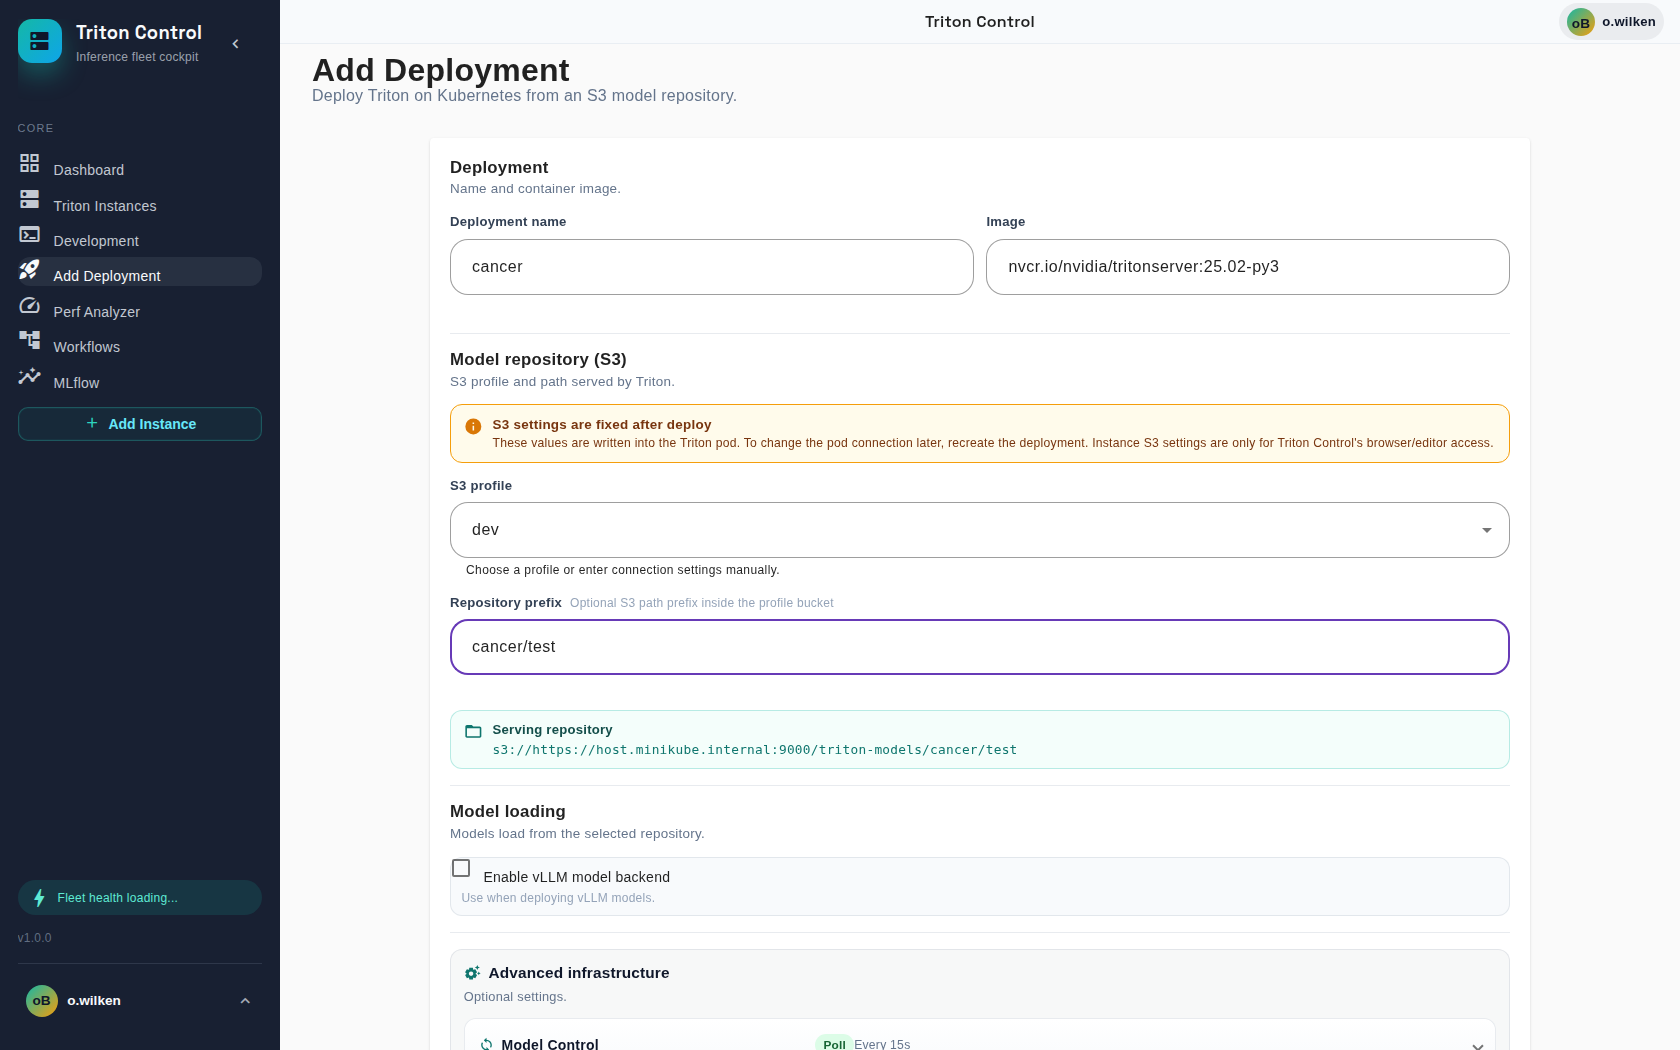
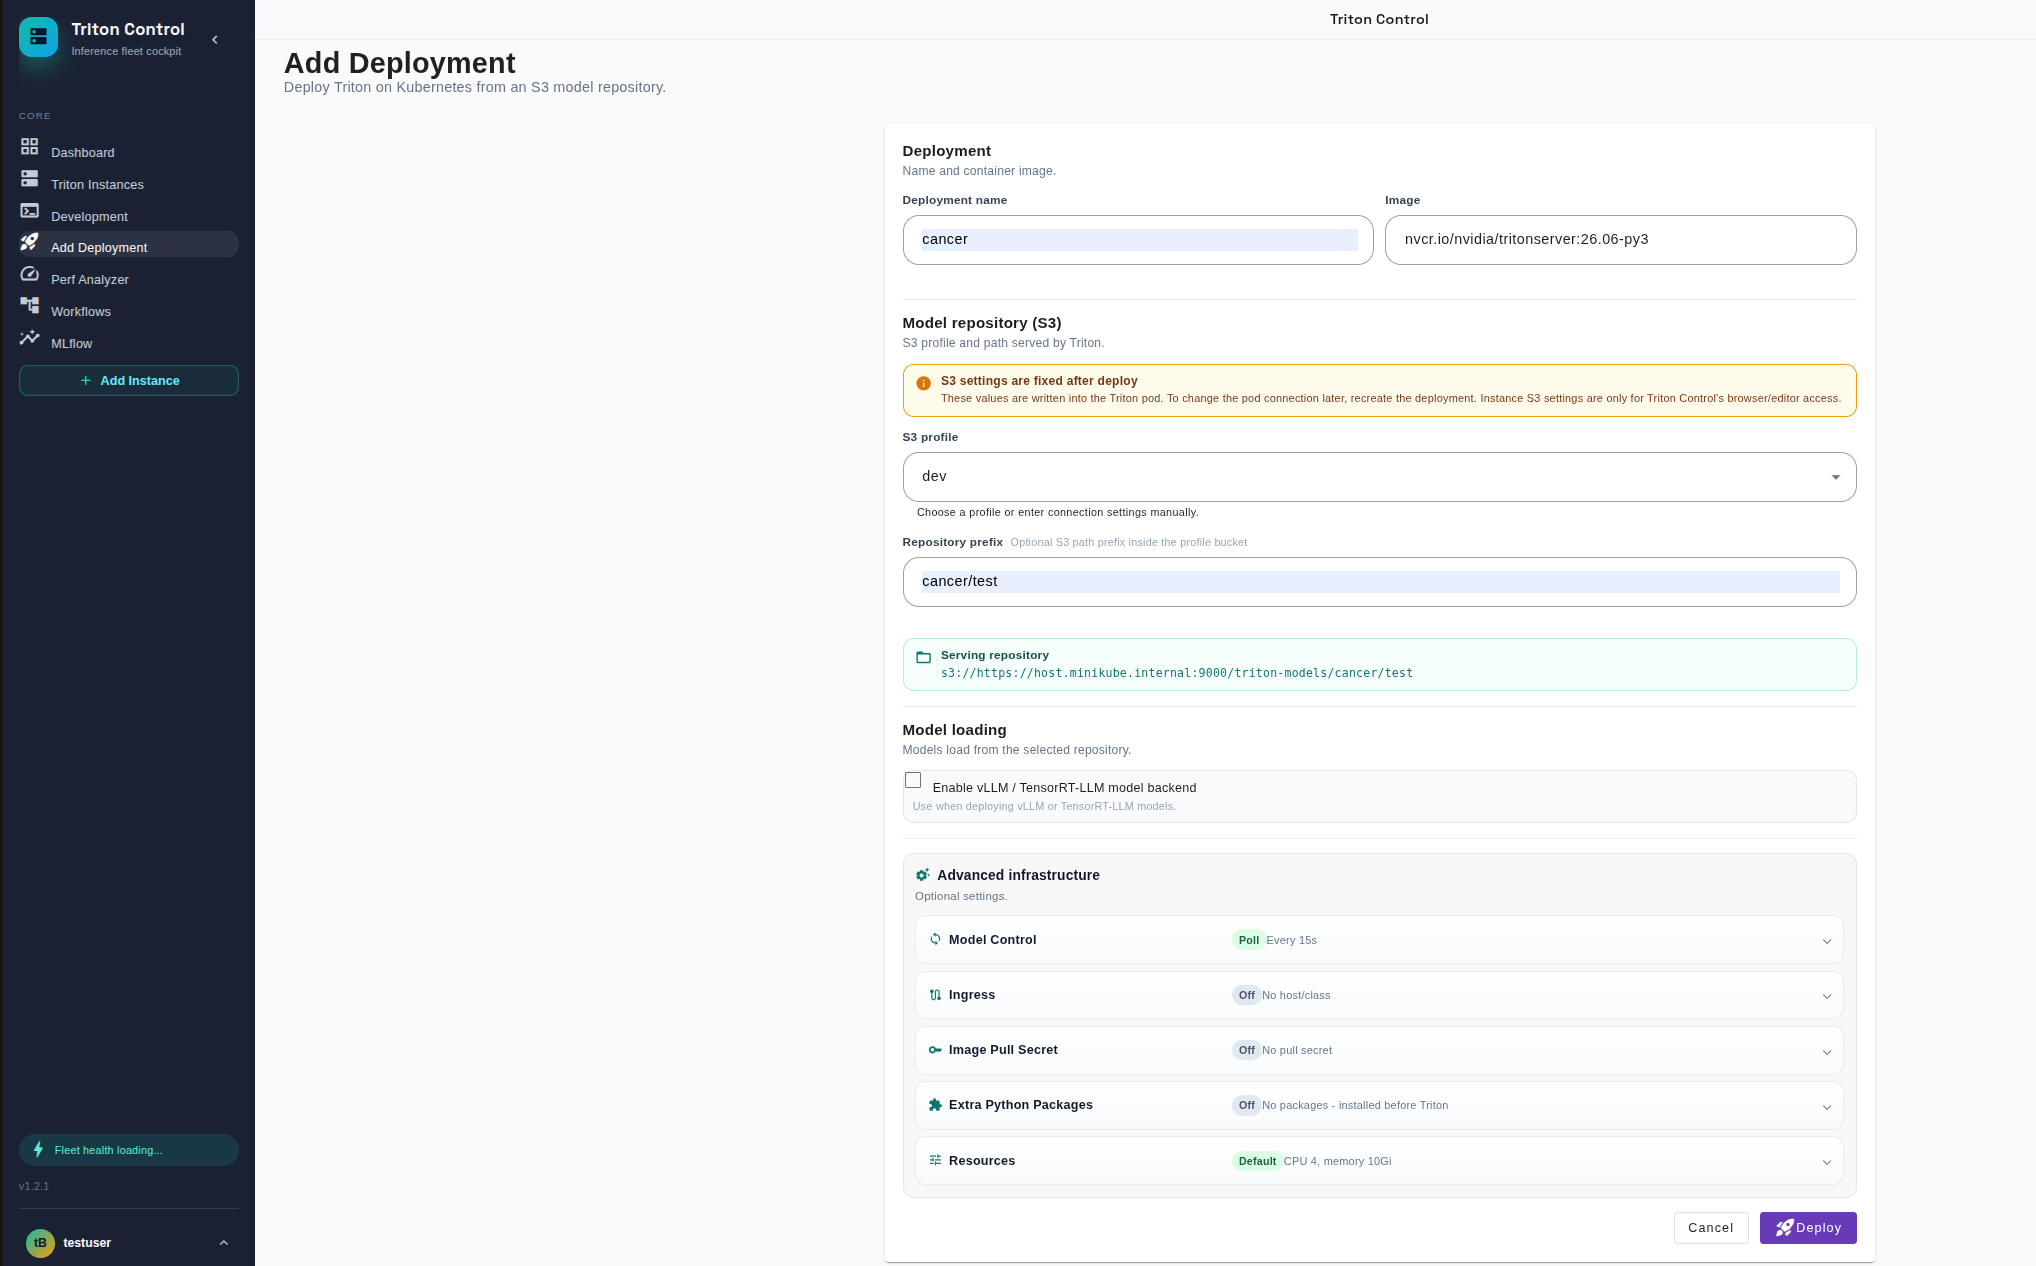
Fix/deploy repository workflow (#18)
* Enhance deployment configuration with ingress settings and refactor memory handling to use Gi units

* Update user guide and README to clarify S3 profile privacy and memory resource settings

* Bump appVersion to v1.2.2 in environment configuration

diff --git a/code-server-extensions/triton-deploy/extension.js b/code-server-extensions/triton-deploy/extension.js
@@ -686,8 +686,10 @@ async function initialFormValues(sourceFolder) {
     profileId: "",
     profileName: "",
     cpu: "2",
-    memory: "4Gi",
+    memoryGi: "4",
     gpuCount: "0",
+    ingressHost: "",
+    ingressClassName: "",
   };
   return initial;
 }
@@ -875,8 +877,10 @@ function normalizeForm(form) {
     repositoryPollSecs: Number(form.repositoryPollSecs || 15),
     modelName: String(form.modelName || "").trim(),
     cpu: String(form.cpu || "").trim(),
-    memory: String(form.memory || "").trim(),
+    memoryGi: String(form.memoryGi || "").trim(),
     gpuCount: String(form.gpuCount || "").trim(),
+    ingressHost: String(form.ingressHost || "").trim(),
+    ingressClassName: String(form.ingressClassName || "").trim(),
   };
 }
 
@@ -927,6 +931,9 @@ function validateForm(form) {
   }
   if (form.gpuCount && (!/^\d+$/.test(form.gpuCount) || Number(form.gpuCount) < 0)) {
     throw new Error("GPU count must be a non-negative whole number.");
+  }
+  if (form.memoryGi && (!/^\d+$/.test(form.memoryGi) || Number(form.memoryGi) < 0)) {
+    throw new Error("RAM must be a non-negative whole number of Gi.");
   }
 }
 
@@ -1150,11 +1157,19 @@ function deploymentPayload(form) {
   if (form.cpu) {
     payload.cpu = form.cpu;
   }
-  if (form.memory) {
-    payload.memory = form.memory;
+  if (form.memoryGi && Number(form.memoryGi) > 0) {
+    const memory = `${Number(form.memoryGi)}Gi`;
+    payload.memory = memory;
+    payload.memory_limit = memory;
   }
   if (form.gpuCount && Number(form.gpuCount) > 0) {
     payload.gpu_count = Number(form.gpuCount);
+  }
+  if (form.ingressHost) {
+    payload.ingress_host = form.ingressHost;
+  }
+  if (form.ingressClassName) {
+    payload.ingress_class_name = form.ingressClassName;
   }
   return payload;
 }
@@ -1217,6 +1232,10 @@ function renderHtml(webview, nonce, initial) {
     details { border: 1px solid var(--vscode-input-border); background: var(--vscode-editorWidget-background); }
     summary { cursor: pointer; padding: 9px 10px; color: var(--vscode-foreground); }
     .details-grid { display: grid; grid-template-columns: repeat(2, minmax(0, 1fr)); gap: 14px; padding: 0 10px 10px; }
+    .details-hint { color: var(--vscode-descriptionForeground); font-size: 12px; }
+    .input-with-suffix { display: grid; grid-template-columns: minmax(0, 1fr) auto; align-items: center; border: 1px solid var(--vscode-input-border); background: var(--vscode-input-background); }
+    .input-with-suffix input { border: 0; }
+    .input-with-suffix span { padding: 0 8px; color: var(--vscode-descriptionForeground); }
     button { width: max-content; border: 0; background: var(--vscode-button-background); color: var(--vscode-button-foreground); padding: 9px 14px; cursor: pointer; }
     button:disabled { opacity: 0.55; cursor: default; }
     .status { margin-top: 18px; white-space: pre-wrap; color: var(--vscode-descriptionForeground); }
@@ -1289,8 +1308,22 @@ function renderHtml(webview, nonce, initial) {
       <summary>Resources</summary>
       <div class="details-grid">
         <label>CPU<input name="cpu"></label>
-        <label>RAM<input name="memory"></label>
+        <label>RAM
+          <span class="input-with-suffix">
+            <input name="memoryGi" type="number" min="0" step="1">
+            <span>Gi</span>
+          </span>
+        </label>
         <label>GPU count<input name="gpuCount" type="number" min="0" step="1"></label>
+      </div>
+    </details>
+    <details class="wide">
+      <summary>Ingress</summary>
+      <div class="details-grid">
+        <div class="wide details-hint">Hostname or URL. Without a scheme, <code>https://</code> is used.</div>
+        <label>Ingress host<input name="ingressHost" placeholder="http://triton.example.local"></label>
+        <label>Ingress class<input name="ingressClassName" placeholder="nginx"></label>
+        <div class="wide details-hint">TLS is not created here. Provide certificates through your ingress controller.</div>
       </div>
     </details>
     <div class="wide"><button id="submit" type="submit">Upload and Deploy</button></div>

diff --git a/triton-frontend/src/app/pages/instances/infer/instance-model-infer-page.component.ts b/triton-frontend/src/app/pages/instances/infer/instance-model-infer-page.component.ts
@@ -67,7 +67,7 @@ export class InstanceModelInferPageComponent implements OnInit {
   });
 
   instanceName = "";
-  instanceUrl = "";
+  readonly instanceUrl = signal("");
   resolvingInstance = false;
   readonly instanceS3 = signal<InstanceS3ConfigDTO | null>(null);
   readonly usesGenerateEndpoint = signal(false);
@@ -111,7 +111,7 @@ export class InstanceModelInferPageComponent implements OnInit {
   private inferUrlCopyResetTimer: ReturnType<typeof setTimeout> | null = null;
   private responseCopyResetTimer: ReturnType<typeof setTimeout> | null = null;
   readonly requestUrl = computed(() => {
-    const baseUrl = this.instanceUrl.trim().replace(/\/$/, "");
+    const baseUrl = this.instanceUrl().trim().replace(/\/$/, "");
     const modelName = encodeURIComponent(this.modelName().trim());
     const version = encodeURIComponent(this.version().trim());
 
@@ -187,7 +187,7 @@ export class InstanceModelInferPageComponent implements OnInit {
       this.instanceName = stateName;
     }
     if (stateUrl) {
-      this.instanceUrl = stateUrl;
+      this.instanceUrl.set(stateUrl);
     }
 
     await this.resolveInstance();
@@ -379,7 +379,7 @@ export class InstanceModelInferPageComponent implements OnInit {
       )) as TritonInstanceDTO;
 
       this.instanceName = instance?.name ?? this.instanceName;
-      this.instanceUrl = instance?.url ?? this.instanceUrl;
+      this.instanceUrl.set(instance?.url ?? this.instanceUrl());
       this.instanceS3.set((instance?.s3 ?? null) as InstanceS3ConfigDTO | null);
       const usesGenerate = await this.resolveUsesGenerateEndpoint();
       this.usesGenerateEndpoint.set(usesGenerate);

diff --git a/triton-frontend/src/app/pages/instances/infer/instance-model-infer-page.component.spec.ts b/triton-frontend/src/app/pages/instances/infer/instance-model-infer-page.component.spec.ts
@@ -104,8 +104,21 @@ describe("InstanceModelInferPageComponent", () => {
 
     // Assert
     expect(component.instanceName).toBe("node-7");
-    expect(component.instanceUrl).toBe("http://localhost:8000");
+    expect(component.instanceUrl()).toBe("http://localhost:8000");
     expect(component.instanceS3()?.bucket).toBe("models");
+  });
+
+  it("NgOnInit_RequestUrlReadBeforeApiSuccess_UpdatesWhenInstanceUrlLoads", async () => {
+    // Arrange
+    const fixture = TestBed.createComponent(InstanceModelInferPageComponent);
+    const component = fixture.componentInstance;
+    expect(component.requestUrl()).toBe("");
+
+    // Act
+    await component.ngOnInit();
+
+    // Assert
+    expect(component.requestUrl()).toBe("http://localhost:8000/v2/models/model-a/versions/1/infer");
   });
 
   it("NgOnInit_TensorRtLlmInstance_UsesGenerateEndpoint", async () => {
@@ -437,7 +450,7 @@ describe("InstanceModelInferPageComponent", () => {
     // Arrange
     const fixture = TestBed.createComponent(InstanceModelInferPageComponent);
     const component = fixture.componentInstance;
-    component.instanceUrl = "";
+    component.instanceUrl.set("");
 
     // Act
     await component.copyInferUrl();
@@ -476,7 +489,7 @@ describe("InstanceModelInferPageComponent", () => {
     spyOn(navigator.clipboard, "writeText").and.resolveTo();
     const fixture = TestBed.createComponent(InstanceModelInferPageComponent);
     const component = fixture.componentInstance;
-    component.instanceUrl = "http://localhost:8000";
+    component.instanceUrl.set("http://localhost:8000");
     await component.ngOnInit();
 
     // Act

diff --git a/triton-frontend/src/environments/environment.ts b/triton-frontend/src/environments/environment.ts
@@ -1,6 +1,6 @@
 export const environment = {
   production: false,
-  appVersion: "v1.2.1",
+  appVersion: "v1.2.2",
 
   // Use IPv4 explicitly on macOS to avoid localhost (::1) hitting gvproxy/docker port forwards.
   apiBaseUrl: "http://127.0.0.1:8000",

diff --git a/docs/user-guide.md b/docs/user-guide.md
@@ -292,11 +292,14 @@ menu. A profile stores:
 - path-style mode
 - optional CA certificate
 
-Profiles are owned by the signed-in user. They are intended for deployment
-workflows, especially the code-server **Triton Control Deploy** extension, so
-users do not need to re-enter S3 credentials for every deploy. The extension
-shows the saved profiles in a dropdown and keeps manual S3 fields available in
-a collapsed optional section.
+Profiles are private to the signed-in user. Other users, including
+administrators, cannot list, edit, or delete them through the S3 profile API.
+Each user must create their own profile, even when multiple users connect to the
+same object store. Profiles are intended for deployment workflows, especially
+the code-server **Triton Control Deploy** extension, so users do not need to
+re-enter S3 credentials for every deploy. The extension shows the signed-in
+user's saved profiles in a dropdown and keeps manual S3 fields available in a
+collapsed optional section.
 
 The stored profile values are used to upload the selected model repository from
 the code-server workspace and to create the Triton deployment. The resulting
@@ -358,7 +361,7 @@ pod.
 | Ingress host/class | Optional | Expose deployment through ingress. | Use for external cluster access. |
 | `.dockerconfigjson` | Optional | Private registry pull credentials. | Required for private images. |
 | `requirements.txt` | Optional | Extra Python packages installed before Triton start. | Prefer dev/stage; bake into image for production. |
-| Resources (GPU/CPU/Memory) | Optional | Kubernetes GPU limit and CPU/memory resource settings. | Set GPU count to at least `1` for vLLM; the form defaults this when vLLM is enabled. |
+| Resources (GPU/CPU/Memory) | Optional | Kubernetes GPU limit and CPU/memory resource settings. | Enter memory as a whole Gi number; the form adds the `Gi` unit. Set GPU count to at least `1` for vLLM; the form defaults this when vLLM is enabled. |
 
 For private container registries, paste Docker registry authentication JSON into
 the image pull secret field (`.dockerconfigjson`). The following JSON is only

diff --git a/code-server-extensions/triton-deploy/README.md b/code-server-extensions/triton-deploy/README.md
@@ -79,7 +79,8 @@ the filesystem watcher or the view refresh action runs.
    `No backend or platform in config.pbtxt`.
 4. Select an S3 profile or expand manual S3 settings. The **Repository prefix**
    is an optional parent path; the upload target preview shows the final
-   `s3://...` path before deploy.
+   `s3://...` path before deploy. Expand **Ingress** to optionally configure the
+   same ingress host and class settings available in Add Deployment.
 5. The extension uploads files below `bucket/prefix/model-repository-path`.
 6. The webview calls `/api/deployments` with the current Triton Control browser
    session, so the normal Add Deployment path is reused.
@@ -129,6 +130,11 @@ directory too deep.
 Members and admins can manage reusable S3 profiles in Triton Control from the
 account menu. The extension loads those profiles from `/api/s3-profiles` and
 shows them in the **S3 profile** dropdown.
+
+S3 profiles are private to the signed-in user. Other users, including
+administrators, cannot list, edit, or delete a profile through the S3 profile
+API. Each user must create their own profile, even when multiple users connect
+to the same object store.
 
 Each profile stores:
 
@@ -213,12 +219,14 @@ The deploy form has a collapsed **Resources** section. The default values shown
 there are real form values and are sent with the deployment:
 
 - CPU: `2`
-- RAM: `4Gi`
+- RAM: `4` with a fixed `Gi` suffix
 - GPU count: `0`
 
-Change or clear these values before deploy if the model needs different
-resources. Values present in the form are sent to Triton Control for every
-backend.
+RAM accepts only non-negative whole Gi values. A positive value such as `4` is
+sent as both the Kubernetes memory request and limit (`4Gi`). Enter `0` or
+clear the field to omit the memory setting. Change or clear the resource values
+before deploy if the model needs different resources. Values present in the
+form are sent to Triton Control for every backend.
 
 ## Package
 
